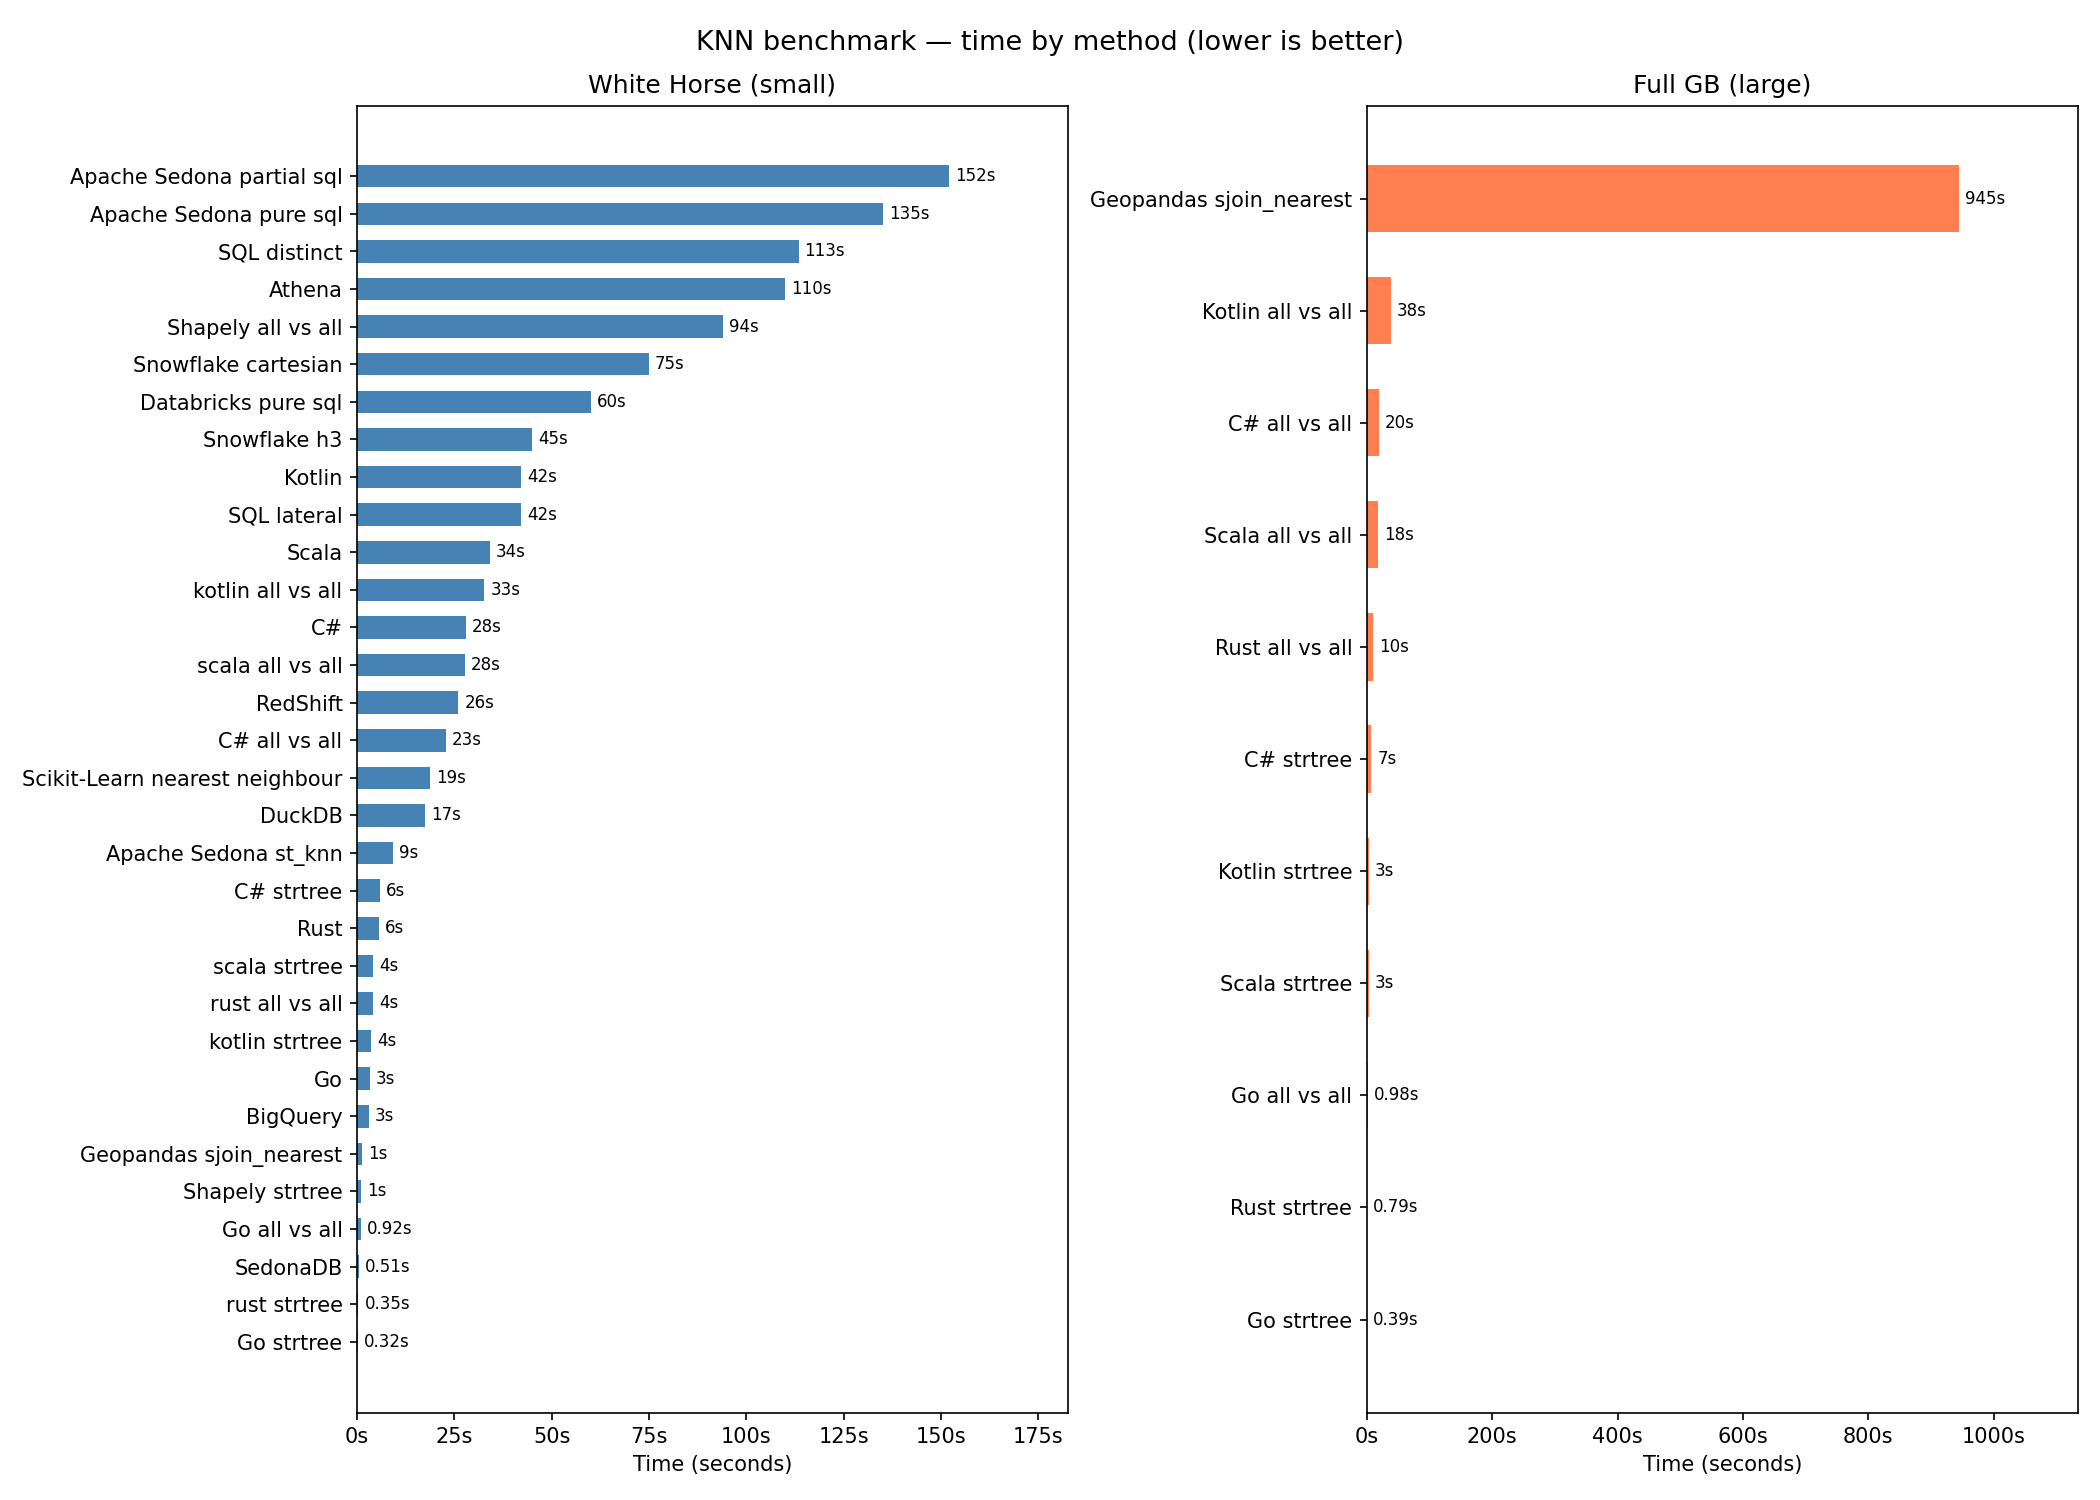
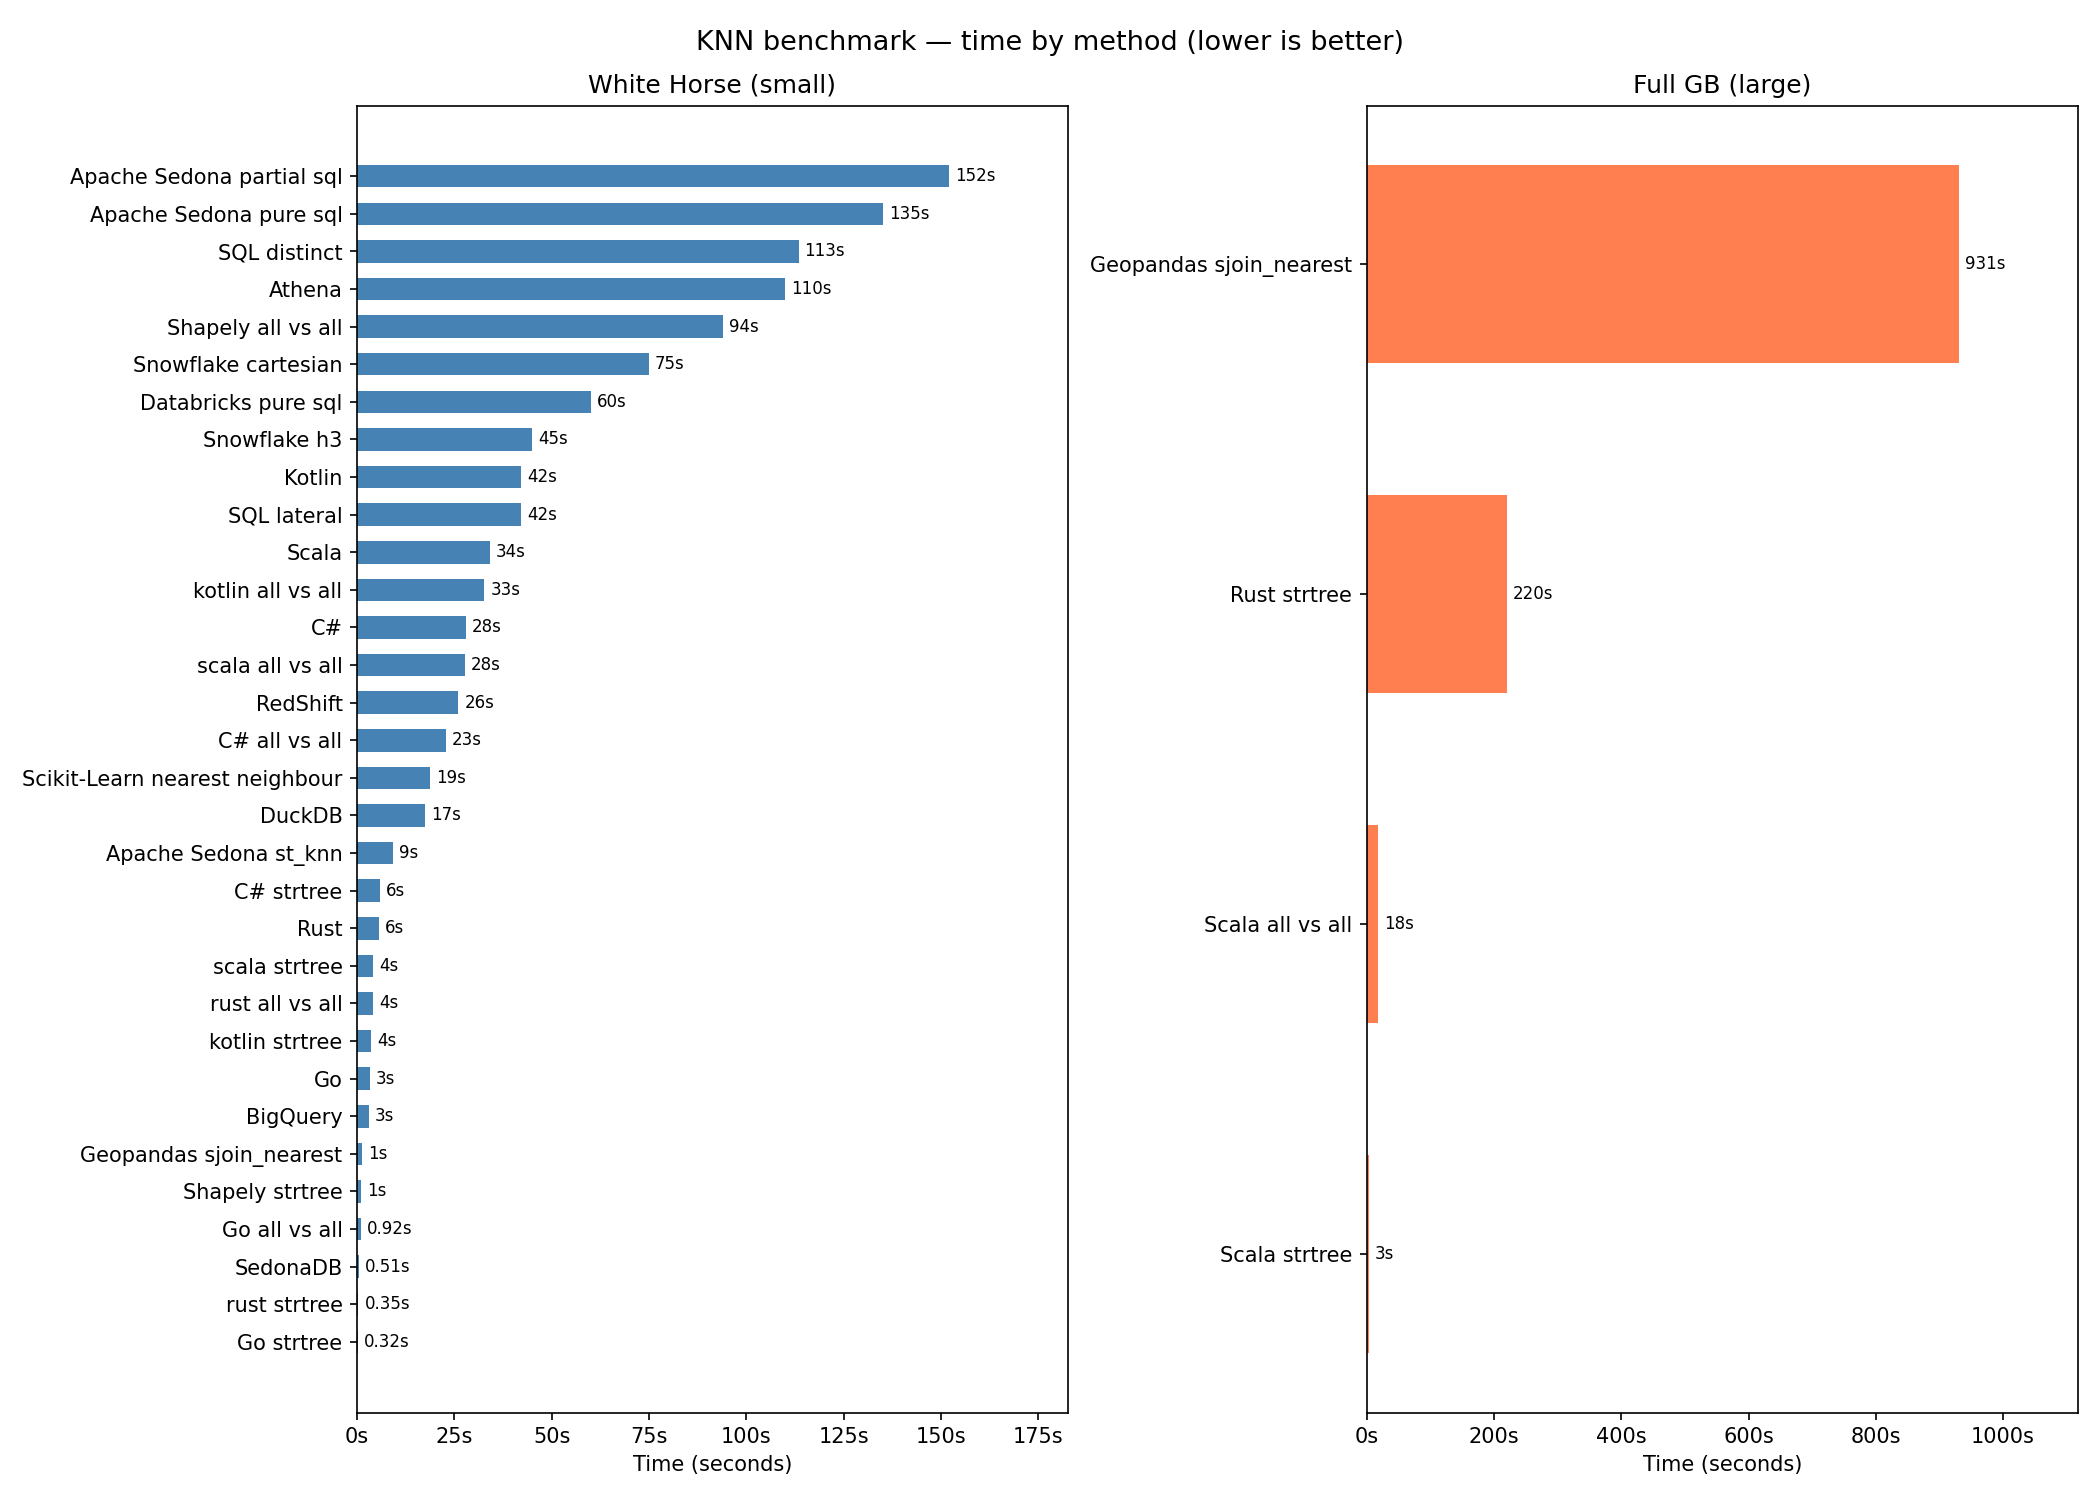
Update benchmark results and enhance error handling in KNN implementations

diff --git a/runners.py b/runners.py
@@ -150,16 +150,31 @@ _COMPILED_LANGS = {
 def _run_compiled(lang, timeout=None, uprn_table=None, codepoint_table=None, mode="both"):
     """Run a compiled-language KNN implementation inside Docker."""
     cfg = _COMPILED_LANGS[lang]
+    # Remove stale output files so we never read results from a previous run.
+    for key in ("timings", "brute_csv", "tree_csv"):
+        path = cfg.get(key)
+        if path and os.path.exists(path):
+            os.remove(path)
     name = f"knn_{lang}_{uuid.uuid4().hex[:8]}"
+    extra = _env_args(uprn_table, codepoint_table) + ["-e", f"KNN_MODE={mode}"]
     returncode, stdout, stderr = _docker_compose_run(
         cfg["service"], name, cfg["cmd"](mode),
-        timeout=timeout, extra_docker_args=_env_args(uprn_table, codepoint_table),
+        timeout=timeout, extra_docker_args=extra,
     )
     if returncode is None:
         print(f"TIMEOUT after {timeout}s")
         return None
     if returncode != 0:
-        print(f"FAILED (exit code {returncode})\n{stderr}")
+        print(f"FAILED (exit code {returncode})")
+        if stdout.strip():
+            print(stdout[-2000:] if len(stdout) > 2000 else stdout)
+        if stderr.strip():
+            print(stderr[-2000:] if len(stderr) > 2000 else stderr)
+        return None
+    if not os.path.exists(cfg["timings"]):
+        print(f"FAILED (no timings written — program may have crashed)")
+        if stderr.strip():
+            print(stderr[-2000:] if len(stderr) > 2000 else stderr)
         return None
     return pd.read_csv(cfg["timings"]).set_index("test")["elapsed_s"].to_dict()
 
@@ -184,15 +199,28 @@ def check(result_csv, ref, lowercase_columns=False):
     if len(mismatches) == 0:
         print("✓ Results match reference")
     else:
-        ties = mismatches[
-            (mismatches["distance_x"] - mismatches["distance_y"]).abs() < 1e-6
+        missing = mismatches[mismatches["destination_y"].isna()]
+        extra = mismatches[mismatches["destination_x"].isna()]
+        valued = mismatches.drop(missing.index).drop(extra.index)
+        ties = valued[
+            (valued["distance_x"] - valued["distance_y"]).abs() < 1e-6
         ]
-        real = mismatches.drop(ties.index)
-        if len(real) == 0:
+        real = valued.drop(ties.index)
+        parts = []
+        if len(missing):
+            parts.append(f"{len(missing)} missing")
+        if len(extra):
+            parts.append(f"{len(extra)} extra")
+        if len(ties):
+            parts.append(f"{len(ties)} tie-breaking")
+        if len(real) == 0 and len(missing) == 0 and len(extra) == 0:
             print(f"✓ Results match reference ({len(ties)} tie-breaking differences)")
         else:
-            print(f"✗ {len(real)} mismatches found in {result_csv} ({len(ties)} tie-breaking)")
-            print(real.head(10).to_string())
+            print(f"✗ {len(real)} wrong results in {result_csv} ({', '.join(parts)})")
+            if len(real):
+                print(real.head(10).to_string())
+            elif len(missing):
+                print(missing.head(10).to_string())
     return mismatches
 
 

diff --git a/README.md b/README.md
@@ -145,7 +145,9 @@ For the large dataset, Rust runs first to generate the reference output (SQL dis
 | test                    | elapsed_s   |
 |:------------------------|:------------|
 | Geopandas sjoin_nearest | 931s        |
-| Rust strtree            | 215s        |
+| Rust strtree            | 220s        |
+| Scala all vs all        | 18s         |
+| Scala strtree           | 3s          |
 <!-- RESULTS_END -->
 
 ![Benchmark results](results.png)
